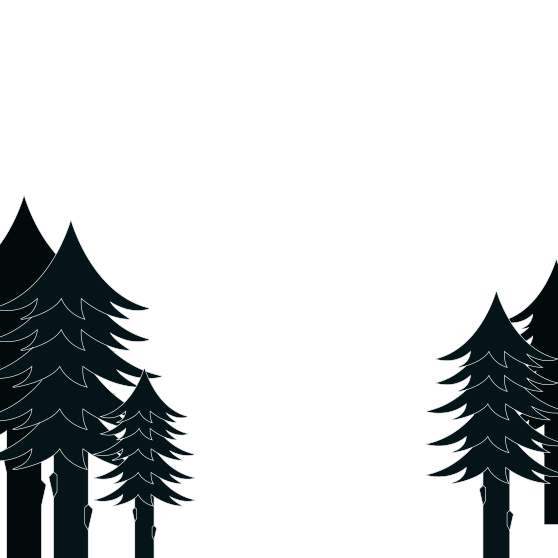
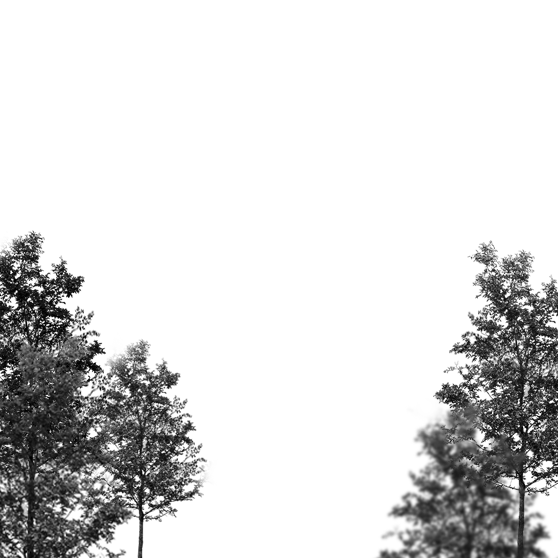
18.12.19
section1 main img changed

Changed region(s): [[0.0, 0.3351, 0.3656, 1.0], [0.6703, 0.4265, 1.0, 1.0]]

diff --git a/jeager-lecoultre/stylesheets/css/home.css b/jeager-lecoultre/stylesheets/css/home.css
@@ -299,6 +299,7 @@ template { display: none; }
   100% { opacity: 1; bottom: 0; } }
 .section { background: radial-gradient(circle, #041419 0%, #041419 55%, #040c0c 100%); background-color: #041419; }
 
+#section1 { background: url("../../images/section1/section1bg.png"), radial-gradient(circle, #041419 0%, #041419 55%, #040c0c 100%); background-size: contain, 100%; background-repeat: no-repeat; background-position: bottom, center; }
 #section1 .fp-tableCell { display: block; }
 #section1 .history { display: -webkit-box; display: -moz-box; display: -ms-flexbox; display: -webkit-flex; display: flex; -webkit-justify-content: space-between; -moz-justify-content: space-between; -ms-justify-content: space-between; justify-content: space-between; -ms-flex-pack: space-between; -webkit-align-items: center; -moz-align-items: center; -ms-align-items: center; align-items: center; -webkit-transition: all 0.3s ease; -o-transition: all 0.3s ease; transition: all 0.3s ease; width: 50%; height: auto; position: relative; top: 25%; margin-left: 25%; background-image: url("../../images/section1/bg-1833.png"); background-size: 40%; background-position: right bottom; background-repeat: no-repeat; }
 #section1 .history .history-image-box { width: 30%; display: block; position: relative; }

diff --git a/jeager-lecoultre/stylesheets/section1.scss b/jeager-lecoultre/stylesheets/section1.scss
@@ -22,6 +22,10 @@
 }
 
 #section1 {
+    background: url('../../images/section1/section1bg.png'), radial-gradient(circle, rgba(4,20,25,1) 0%, rgba(4,20,25,1) 55%, rgba(4,12,12,1) 100%);
+    background-size: contain, 100%;
+    background-repeat: no-repeat;
+    background-position: bottom, center;
     .fp-tableCell {
         display: block;
     }
